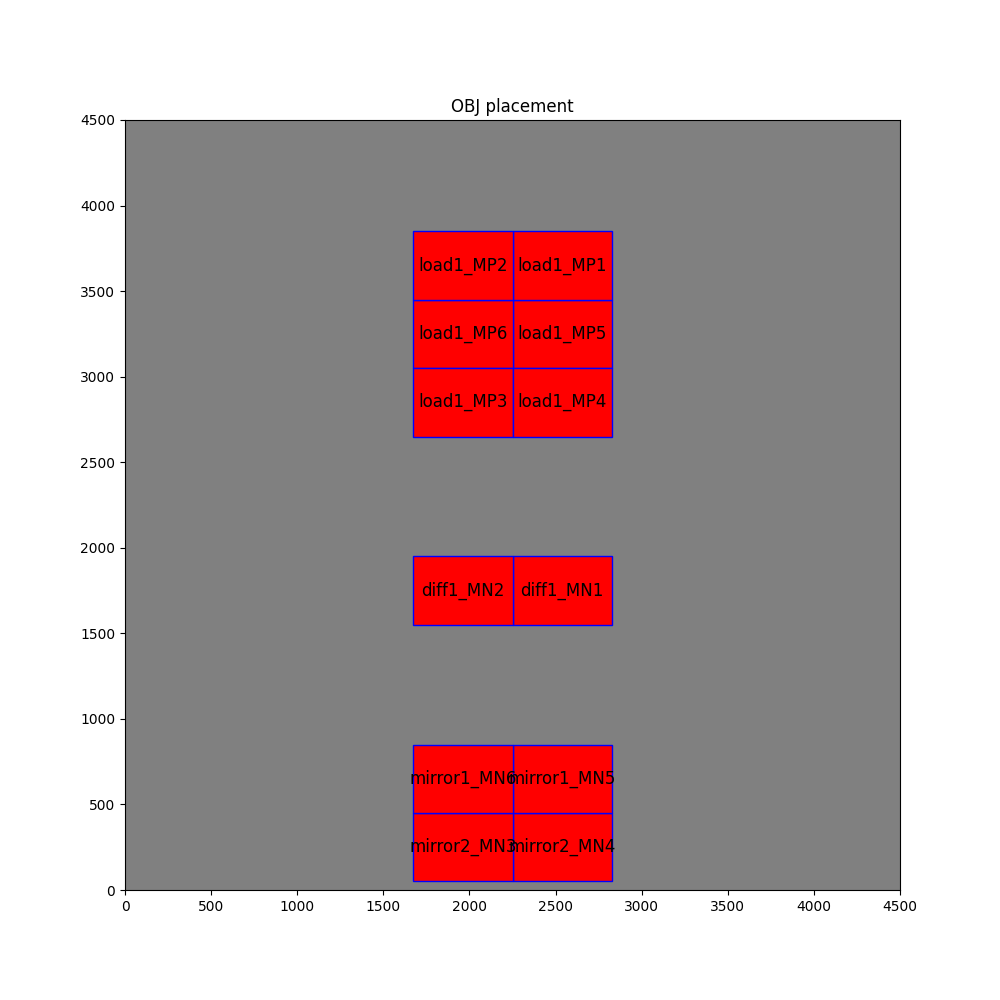
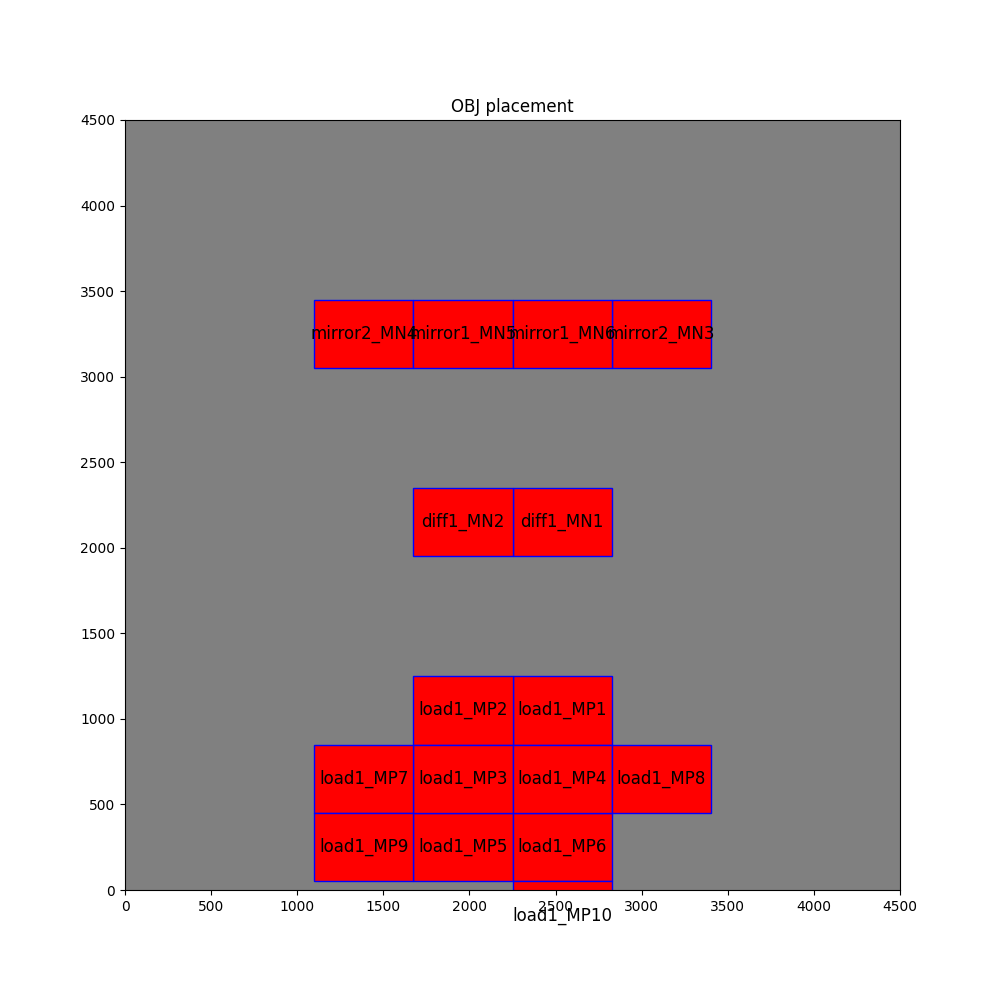
Some progress. More edge cases

Changed region(s): [[0.31, 0.217, 0.713, 0.93]]

diff --git a/src/libraries/atr_sky130a_lib.py b/src/libraries/atr_sky130a_lib.py
@@ -168,6 +168,8 @@ def get_component_group_endpoints_for_atr_sky130a_lib(self: object):
         min_x_components.append(min(components_x_placement.items()))
         max_x_components.append(max(components_x_placement.items()))
 
+    ### Handling for the case where two groups of components are overlapping ###
+
     # Check for overlap of y-minimum components
     prev_y_min = None
     y_min_overlap_components_to_remove = []
@@ -180,7 +182,7 @@ def get_component_group_endpoints_for_atr_sky130a_lib(self: object):
                 if abs(y - prev_y_min) == component.bounding_box.y2:
 
                     # Take the maximum of the last two components that compared a y-distance to be
-                    # less/equal to the bounding box.
+                    # equal to the bounding box.
                     y_min_overlap_components_to_remove.append(max(min_y_components[i - 1], min_y_components[i],
                                                                   key=lambda distance: (distance[0])))
         prev_y_min = y
@@ -195,9 +197,8 @@ def get_component_group_endpoints_for_atr_sky130a_lib(self: object):
             for component in components:
                 # Maybe there are some edge case here still!
                 if abs(y - prev_y_max) == component.bounding_box.y2:
-
                     # Take the minimum of the last two components that compared a y-distance to be
-                    # less/equal to the bounding box.
+                    # equal to the bounding box.
                     y_max_overlap_components_to_remove.append(min(max_y_components[i - 1], max_y_components[i],
                                                                   key=lambda distance: (distance[0])))
         prev_y_max = y
@@ -262,7 +263,6 @@ def get_component_group_endpoints_for_atr_sky130a_lib(self: object):
         if (isinstance(component, Transistor)
                 and (component in min_x_no_rail_top_components or component in max_x_no_rail_top_components)):
             component.group_endpoint = 'no_rail_top'
-            print(component.name)
 
     for component in max_x_component_list:
         print(f"max_x_comp_list: {component.name}")
@@ -293,15 +293,47 @@ def get_component_group_endpoints_for_atr_sky130a_lib(self: object):
         print(f"min_x_max_y: {component.name}")
 
     min_x_no_rail_top_and_bot_components = [comp for comp in min_x_component_list if comp not
-                                            in min_x_max_y_component_list]
+                                            in min_x_max_y_component_list and comp not in min_x_min_y_component_list]
     max_x_no_rail_top_and_bot_components = [comp for comp in max_x_component_list if comp not
-                                            in max_x_max_y_component_list]
+                                            in max_x_max_y_component_list and comp not in max_x_min_y_component_list]
+
+    #for component in min_x_no_rail_top_and_bot_components:
+    #    print(component.name)
+
+    #for component in min_x_component_list:
+    #    print(component.name)
+
 
     for component in self.components:
-        if (isinstance(component, Transistor) and (component in min_x_no_rail_top_and_bot_components or component in
-                                                   max_x_no_rail_top_and_bot_components)):
-            print(component.group)
-            component.group_endpoint = 'no_rail_top/bot'
+        if isinstance(component, Transistor):
+            if component in min_x_no_rail_top_and_bot_components:
+                # Iterate over minimum x components that match with the group of the potential no rail top/bot endpoint.
+                same_group_and_min_x = [comp for comp in min_x_component_list if comp.group == component.group]
+
+                same_x_and_same_group_and_min_x = all(comp.transform_matrix.c == same_group_and_min_x[0].transform_matrix.c
+                                                      for comp in same_group_and_min_x)
+
+                if not same_x_and_same_group_and_min_x or len(same_group_and_min_x) == 1:
+                     component.group_endpoint = 'no_rail_top/bot'
+
+                elif len(same_group_and_min_x) > 1 and len(same_group_and_min_x) % 2:
+                    component.group_endpoint = ''
+
+            elif component in max_x_no_rail_top_and_bot_components:
+
+                same_group_and_max_x = [comp for comp in max_x_component_list if comp.group == component.group]
+
+
+                same_x_and_same_group_and_max_x = all(
+                    comp.transform_matrix.c == same_group_and_max_x[0].transform_matrix.c
+                    for comp in same_group_and_max_x)
+
+                if not same_x_and_same_group_and_max_x or len(same_group_and_max_x) == 1:
+                    component.group_endpoint = 'no_rail_top/bot'
+
+                elif len(same_group_and_max_x) > 1 and len(same_group_and_max_x) % 2:
+                    component.group_endpoint = ''
+
 
     # Case 4 (rail bot)
     for component in self.components:

diff --git a/src/main.py b/src/main.py
@@ -137,7 +137,7 @@ def main():
         #LVSchecking(project_properties=project_properties)
 
     else:
-        components = load_from_json(file_name="src/json_converter/components.json")
+        components = load_from_json(file_name="src/json_converter/components_w3.json")
 
         # Update components with trace information
         components = TraceGenerator(components=components, project_properties=project_properties).get()
